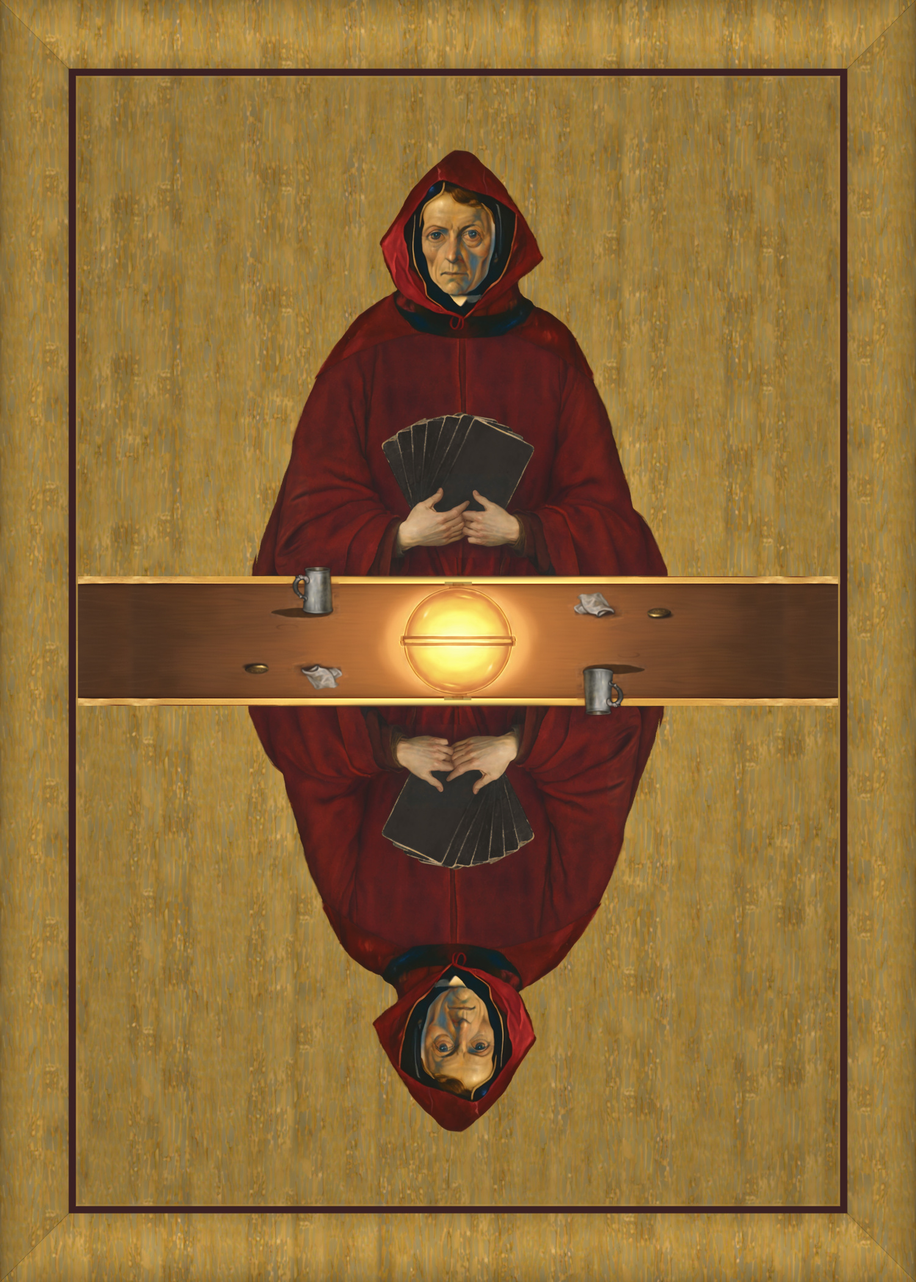
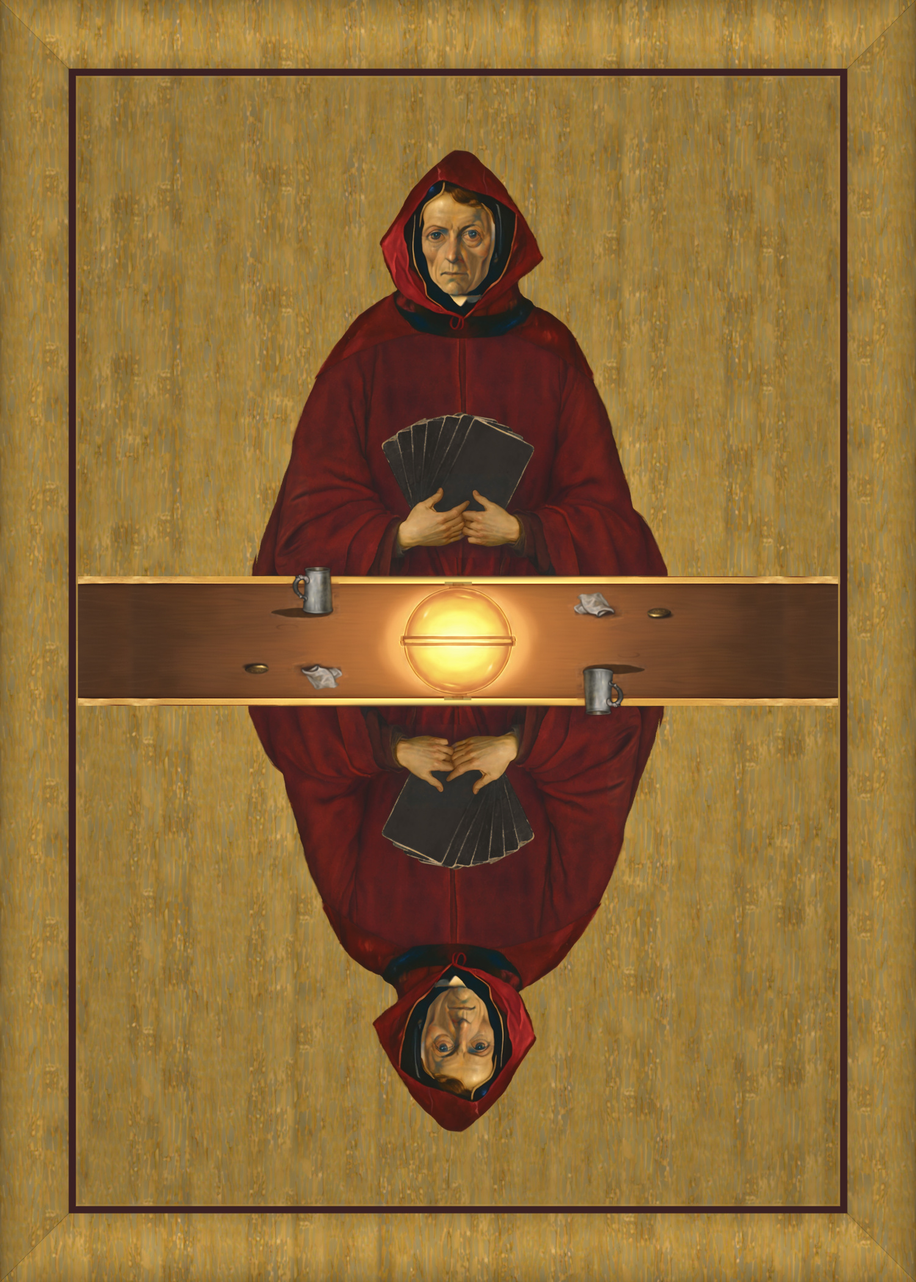
Two Seats order 1, finish 2: the hands' skin matched to the face's, the cheek's cool grey warmed (the owner's last two notes)
Hands: a Lab mean match of the hands' lit skin to the face's lit skin, applied to the
hands' skin only (cards, gilt edges and cuffs untouched); no repaint, no shape change.
Hue 29.5 -> 32.2 deg (face 32.1), sat 0.449 -> 0.605 (face 0.599), b* 25.2 -> 35.0 (face 35.2).
Cheek: chroma pulled toward the face's own skin at the same L*, inside a drawn patch, the
eye and the hood's black excluded; lightness kept. Lift and turn as before; all checks
pass (symmetry exact, darks 28.0, figure sat x value max 151.9 at the one known hood pixel).

diff --git a/docs/proxies/cardback/two-seats/order-1/finish/tools/sheets3.py b/docs/proxies/cardback/two-seats/order-1/finish/tools/sheets3.py
@@ -3,7 +3,8 @@
 #   CHECK.jpg        three cards at full size: the finished card, the raw one-pass pick (DreamShaper 0.40 s9702,
 #                    one-pass/two-seats-garnet-man-ds-40-s9702.png) and the previous order-1 file (63ae528); then every
 #                    fix at 2x, before (the raw pick) and after (the finished card), nearest-neighbour so no pixel is
-#                    smoothed by the sheet
+#                    smoothed by the sheet; then finish 2's two fixes at 2x, before (the 6cf1ff1 file, work/prev-finish1.png)
+#                    and after: the hands' colour with the face beside the hands, and the cheek
 #   SLEEVE-SIZE.jpg  true print size (744 x 1039 = 63.5 x 88.9 mm at 297.6 px per inch) with a 10 mm bar
 import sys, os
 from PIL import Image, ImageDraw, ImageFont
@@ -14,6 +15,11 @@ BG = (236, 232, 224); INK = (30, 30, 30)
 new = Image.open(f"{OD}/two-seats-garnet-man.png").convert("RGB")
 raw = Image.open(f"{OD}/one-pass/two-seats-garnet-man-ds-40-s9702.png").convert("RGB")
 prev = Image.open("work/prev-order1.png").convert("RGB")
+fin1 = Image.open("work/prev-finish1.png").convert("RGB")
+FACEB, HANDB, CHEEKB = (690, 320, 820, 480), (630, 780, 880, 920), (720, 360, 840, 500)
+def facehands(im):  # the face and the hands side by side, 2x, bottoms aligned
+    f, h = z(im, FACEB), z(im, HANDB); T = Image.new("RGB", (f.width + 16 + h.width, f.height), BG)
+    T.paste(f, (0, 0)); T.paste(h, (f.width + 16, f.height - h.height)); return T
 FIX = [("1. Hands (DS 0.58 s9803 of 10)", (630, 765, 875, 915)),
        ("5. Cards (value/hue shift in the card mask; foot repainted with the hands)", (610, 650, 890, 845)),
        ("2. Tankard (DS 0.50 s9811 of 4)", (425, 895, 585, 1030)),
@@ -31,7 +37,10 @@ for t, b in FIX:
     if x + w > W and row: rows.append((row, rh)); row = []; x = pad; rh = 0
     row.append((t, b, x)); x += w + pad; rh = max(rh, (b[3] - b[1]) * 2)
 rows.append((row, rh))
-H = pad + lab + 2100 + pad + sum(lab + r + pad for _, r in rows) + pad
+F2 = [("8. Hands' colour, the face beside them (Lab mean match to the face's skin, finish 2)", facehands(fin1), facehands(new)),
+      ("9. Cheek (chroma toward the cheek's own skin, lightness kept, finish 2)", z(fin1, CHEEKB), z(new, CHEEKB))]
+f2h = lab + 36 + max(b.height for _, b, _ in F2) + pad
+H = pad + lab + 2100 + pad + sum(lab + r + pad for _, r in rows) + f2h + pad
 S = Image.new("RGB", (W, H), BG); d = ImageDraw.Draw(S)
 y = pad
 for i, (t, im) in enumerate((("Finished (this file)", new), ("The pick as painted: DreamShaper 0.40, seed 9702", raw), ("Order 1 before this (63ae528)", prev))):
@@ -42,6 +51,11 @@ for row, rh in rows:
         d.text((x, y), t + ": before | after, 2x", fill=INK, font=f(24, True))
         S.paste(z(raw, b), (x, y + lab)); S.paste(z(new, b), (x + (b[2] - b[0]) * 2 + pad // 2, y + lab))
     y += lab + rh + pad
+d.text((pad, y), "Finish 2, the owner's last notes: before (6cf1ff1) | after, 2x", fill=INK, font=f(30, True)); y += 36
+x = pad
+for t, b, a in F2:
+    d.text((x, y), t, fill=INK, font=f(24, True))
+    S.paste(b, (x, y + lab)); S.paste(a, (x + b.width + pad // 2, y + lab)); x += 2 * b.width + pad // 2 + 2 * pad
 S.save(f"{OD}/CHECK.jpg", quality=88)
 w, h = 744, 1039; mm = w / 63.5; pad = 40
 S = Image.new("RGB", (3 * w + 4 * pad, h + 170), BG); d = ImageDraw.Draw(S)

diff --git a/docs/proxies/cardback/two-seats/order-1/finish/tools/skinlib.py b/docs/proxies/cardback/two-seats/order-1/finish/tools/skinlib.py
@@ -1,0 +1,58 @@
+# SPDX-License-Identifier: GPL-3.0-or-later
+# The Two Seats, order 1, finish 2: colour helpers (sRGB <-> CIE Lab D65, HSV) and the two skin masks, numpy only.
+import json, os
+import numpy as np
+from PIL import Image, ImageDraw
+HERE = os.path.dirname(os.path.abspath(__file__))
+REG = json.load(open(os.path.join(HERE, "regions.json")))
+M = np.array([[.4124564, .3575761, .1804375], [.2126729, .7151522, .0721750], [.0193339, .1191920, .9503041]])
+WP = np.array([.95047, 1.0, 1.08883])
+
+def rgb2lab(rgb):  # uint8/float 0..255 -> Lab
+    c = np.asarray(rgb, np.float64) / 255
+    c = np.where(c <= .04045, c / 12.92, ((c + .055) / 1.055) ** 2.4)
+    x = c @ M.T / WP
+    f = np.where(x > (6 / 29) ** 3, np.cbrt(x), x / (3 * (6 / 29) ** 2) + 4 / 29)
+    return np.stack([116 * f[..., 1] - 16, 500 * (f[..., 0] - f[..., 1]), 200 * (f[..., 1] - f[..., 2])], -1)
+
+def lab2rgb(lab):  # -> float 0..255 (unclipped)
+    fy = (lab[..., 0] + 16) / 116; fx = fy + lab[..., 1] / 500; fz = fy - lab[..., 2] / 200
+    f = np.stack([fx, fy, fz], -1)
+    x = np.where(f > 6 / 29, f ** 3, 3 * (6 / 29) ** 2 * (f - 4 / 29)) * WP
+    c = x @ np.linalg.inv(M).T
+    c = np.where(c <= .0031308, 12.92 * c, 1.055 * np.clip(c, 0, None) ** (1 / 2.4) - .055)
+    return c * 255
+
+def hsv(rgb):  # -> h degrees, s, v (0..1)
+    c = np.asarray(rgb, np.float64) / 255
+    mx = c.max(-1); mn = c.min(-1); d = mx - mn
+    s = np.where(mx > 0, d / np.maximum(mx, 1e-9), 0)
+    r, g, b = c[..., 0], c[..., 1], c[..., 2]
+    h = np.where(mx == r, (g - b) / np.maximum(d, 1e-9) % 6, np.where(mx == g, (b - r) / np.maximum(d, 1e-9) + 2, (r - g) / np.maximum(d, 1e-9) + 4)) * 60
+    return np.where(d > 0, h, 0), s, mx
+
+def drawn(shapes, H=1050, W=1500):
+    im = Image.new("L", (W, H), 0); d = ImageDraw.Draw(im)
+    for p in shapes.get("poly", []): d.polygon([tuple(q) for q in p], fill=255)
+    for e in shapes.get("ellipse", []): d.ellipse(e, fill=255)
+    for e in shapes.get("minus_ellipse", []): d.ellipse(e, fill=0)
+    for e in shapes.get("minus", []): d.rectangle(e, fill=0)
+    return np.asarray(im) > 0
+
+# Where skin is measured. FACE: an inner oval of the face, both eyes and the brows cut out (boxes), the mouth line too.
+# HANDS: the hands region of finish 1 (regions.json "hands"). Skin inside either: hue 12-50 deg, s 0.12-0.80, and
+# "lit" = v >= 0.42 (the shadow excluded), so the statistics compare skin with skin.
+FACE = {"ellipse": [[700, 330, 812, 478]], "minus": [[703, 368, 750, 402], [757, 368, 806, 402], [728, 455, 790, 466]]}
+def masks(top):
+    h, s, v = hsv(top)
+    skinhue = (h >= 12) & (h <= 50) & (s >= .12) & (s <= .80)
+    face = drawn(FACE) & skinhue & (v >= .42)
+    hands_area = drawn(REG["hands"])
+    hands = hands_area & skinhue & (v >= .42)
+    return face, hands, hands_area
+
+def stats(top, m):
+    h, s, v = hsv(top); L = rgb2lab(top)
+    q = lambda a: [round(float(x), 3) for x in (a[m].mean(), a[m].std(), *np.percentile(a[m], [10, 50, 90]))]
+    return {"px": int(m.sum()), "hue mean/std/p10/p50/p90": q(h), "sat": q(s), "val": q(v),
+            "L": q(L[..., 0]), "a": q(L[..., 1]), "b": q(L[..., 2])}

diff --git a/docs/proxies/cardback/two-seats/order-1/finish/tools/cheekskin.py b/docs/proxies/cardback/two-seats/order-1/finish/tools/cheekskin.py
@@ -1,0 +1,35 @@
+# SPDX-License-Identifier: GPL-3.0-or-later
+# The Two Seats, order 1, finish 2: the cool grey left on his cheek by the draft's blue-green smear, warmed toward the
+# cheek's own skin (the owner: "fix ... the cheek").   cheekskin.py <top.png> <out top.png>  (in two-seats-work/order1/finish)
+# Lightness is kept, so every form, line and shadow of the face stays the pick's; only the chroma moves. The face's
+# skin (hue 12-50 deg, sat >= 0.12, L* >= 22, inside the face oval, eyes, brows, mouth and the patch excluded) gives
+# a* and b* as a quadratic in L*. Inside the drawn patch (PATCH: the cheek from the nose to the face's right edge, the
+# right eye excluded, feathered 1.5 px) a pixel whose b* falls short of that prediction by more than 3 is pulled toward
+# the predicted (a*, b*) at its own L*, fully at a shortfall of 13. Pixels darker than L* 22 (the hood's black at the
+# face's edge) are left.
+import sys, json
+import numpy as np
+from PIL import Image
+from scipy.ndimage import gaussian_filter
+from skinlib import hsv, rgb2lab, lab2rgb, drawn, FACE
+PATCH = {"poly": [[[748, 390], [790, 393], [806, 380], [812, 382], [811, 420], [806, 446], [802, 462], [794, 486], [752, 486], [743, 456], [745, 420]]],
+         "minus_ellipse": [[755, 366, 808, 403]]}
+src, out = sys.argv[1:3]
+top = np.asarray(Image.open(src).convert("RGB"))
+Lab = rgb2lab(top); L, A, B = Lab[..., 0], Lab[..., 1], Lab[..., 2]
+h, s, v = hsv(top)
+patch = drawn(PATCH)
+ref = drawn(FACE) & ~patch & (h >= 12) & (h <= 50) & (s >= .12) & (L >= 22)
+pa = np.polyfit(L[ref], A[ref], 2); pb = np.polyfit(L[ref], B[ref], 2)
+ta, tb = np.polyval(pa, L), np.polyval(pb, L)
+short = tb - B
+w = np.clip((short - 3) / 10, 0, 1) * (L >= 22)
+feather = gaussian_filter(patch.astype(np.float64), 1.5)
+w = np.clip(gaussian_filter(w * patch, 1.0), 0, 1) * np.clip(feather * 1.0, 0, 1)
+N = Lab.copy(); N[..., 1] = A + (ta - A) * w; N[..., 2] = B + (tb - B) * w
+res = np.round(np.clip(top * (1 - (w > 0)[..., None]) + lab2rgb(N) * (w > 0)[..., None], 0, 255)).astype(np.uint8)
+Image.fromarray(res).save(out)
+P = patch & (L >= 22)
+q = lambda im: {k: round(float(x[P].mean()), 2) for k, x in zip("Lab", np.moveaxis(rgb2lab(im), -1, 0))}
+print(json.dumps({"changed px": int((res != top).any(-1).sum()), "patch px": int(P.sum()), "patch before": q(top), "patch after": q(res),
+                  "max weight": round(float(w.max()), 2), "fit b(L)": [round(float(c), 4) for c in pb]}))

diff --git a/docs/proxies/cardback/two-seats/order-1/finish/tools/handskin.py b/docs/proxies/cardback/two-seats/order-1/finish/tools/handskin.py
@@ -1,0 +1,36 @@
+# SPDX-License-Identifier: GPL-3.0-or-later
+# The Two Seats, order 1, finish 2: the hands' skin brought to the face's (the owner: "fix the hands colour").
+#   handskin.py <top.png> <out top.png> [std weight a,b (default 1)] (run in two-seats-work/order1/finish)
+# A per-channel mean/std match in CIE Lab: the hands' LIT skin statistics (skinlib.masks) are matched to the face's,
+# L, a and b each  x' = mu_face + (x - mu_hands) * k * sd_face / sd_hands + (1 - k) * (x - mu_hands)  -- k is the std
+# weight, 1 for L. The transform is applied to every skin pixel of the hands (the shadows between the fingers too),
+# with a soft alpha: inside finish 1's hands region, hue 12-50 deg (ramped 8-12 and 50-56), sat ramped 0.15-0.25 and
+# value ramped 0.24-0.32 (so the near-black cards and the red robe are untouched), and only within 3 px of the lit
+# skin opened by a 5 px square (so the cards' thin gilt edges and the sleeves' cuffs are untouched); softened by a
+# 1 px gaussian.
+# No shape change, no repaint: only the colour of pixels already skin.
+import sys, json
+import numpy as np
+from PIL import Image
+from scipy.ndimage import gaussian_filter, binary_opening, binary_dilation
+from skinlib import masks, stats, hsv, rgb2lab, lab2rgb
+src, out = sys.argv[1:3]; k = float(sys.argv[3]) if len(sys.argv) > 3 else 1.0
+top = np.asarray(Image.open(src).convert("RGB"))
+face, hands, area = masks(top)
+h, s, v = hsv(top)
+ramp = lambda x, a, b: np.clip((x - a) / (b - a), 0, 1)
+alpha = area * ramp(h, 8, 12) * (1 - ramp(h, 50, 56)) * ramp(s, .15, .25) * ramp(v, .24, .32)
+near = binary_dilation(binary_opening(hands, np.ones((5, 5), bool)), iterations=3)
+alpha = np.clip(gaussian_filter((alpha * near).astype(np.float64), 1.0), 0, 1) * area
+Lab = rgb2lab(top); N = Lab.copy()
+for c, kc in ((0, 1.0), (1, k), (2, k)):
+    mf, sf = Lab[..., c][face].mean(), Lab[..., c][face].std()
+    mh, sh = Lab[..., c][hands].mean(), Lab[..., c][hands].std()
+    d = Lab[..., c] - mh
+    N[..., c] = mf + d * (kc * sf / sh + (1 - kc))
+rgb = lab2rgb(N)
+res = top * (1 - alpha[..., None]) + rgb * alpha[..., None]
+res = np.round(np.clip(res, 0, 255)).astype(np.uint8)
+Image.fromarray(res).save(out)
+print(json.dumps({"k": k, "changed px": int((res != top).any(-1).sum()), "before": {"face": stats(top, face), "hands": stats(top, hands)},
+                  "after hands": stats(res, hands)}))

diff --git a/docs/proxies/cardback/two-seats/order-1/finish/tools/skinmeasure.py b/docs/proxies/cardback/two-seats/order-1/finish/tools/skinmeasure.py
@@ -1,0 +1,12 @@
+# SPDX-License-Identifier: GPL-3.0-or-later
+# skinmeasure.py <top.png> [maskview.png]: the face's and the hands' skin statistics (skinlib.masks), as JSON.
+import sys, json
+import numpy as np
+from PIL import Image
+from skinlib import masks, stats
+top = np.asarray(Image.open(sys.argv[1]).convert("RGB"))
+f, hd, _ = masks(top)
+print(json.dumps({"face": stats(top, f), "hands": stats(top, hd)}, indent=1))
+if len(sys.argv) > 2:
+    v = top.copy(); v[f] = (0, 255, 0); v[hd] = (0, 160, 255)
+    Image.fromarray(v).crop((600, 300, 900, 940)).resize((600, 1280), Image.NEAREST).save(sys.argv[2])

diff --git a/docs/proxies/cardback/two-seats/order-1/ORDER-1.md b/docs/proxies/cardback/two-seats/order-1/ORDER-1.md
@@ -84,6 +84,8 @@ There was no blur, grain or texture matching.
 | 7. Cheek: the blue-green smear | painted at 3×, cheek and jaw only, eyes excluded. At 0.28 and 0.35 the smear stayed, so it was rerun at 0.40/0.46 × seeds 9851/9853 | **0.46 s9851**: a cool grey shadow. The rest of the face is the pick's own pixels |
 | 7. Collar: a saturated blue strap | taken from the shoulder pass, through the collar ellipse only | **0.42 s9861**: dissolved into the dark collar |
 | 6. Shoulders | 0.42 × 2 seeds: their outline did not move at that strength | **left as painted** |
+| 8. Hands' colour: paler and cooler than the face (finish 2) | `finish/tools/handskin.py`, a Lab mean match of the hands' lit skin to the face's lit skin (`skinlib.py`'s masks: hue 12–50°, sat ≥ 0.12, value ≥ 0.42, eyes, brows and mouth cut out). Applied to the hands' skin only, shadows between the fingers included; the cards, the gilt edges and the cuffs are untouched. The full std match (k = 1) was blotchy and k = 0.5 still patchy, so the means only (k = 0) | hue 29.5° → 32.2° (face 32.1°), sat 0.449 → 0.605 (face 0.599), value 0.653 → 0.636 (face 0.637), b* 25.2 → 35.0 (face 35.2). Every mean within 1% of the face's. No pixel moved and nothing was repainted, so the fingers are as before: four and a thumb each, both thumbs on the front card |
+| 9. Cheek: a faint cool grey left by the smear (finish 2) | `finish/tools/cheekskin.py`. Lightness is kept, and only the chroma moves toward the face's own skin at the same L*, fitted from the face. Drawn patch from the nose to the face's right edge, right eye excluded, feathered; the hood's black (L* < 22) is left | the patch's mean a*/b* 6.3/19.3 → 9.8/26.0 at the same L* 39.0. 3,010 px changed. At 2× and 4× it is the same man |
 
 Also checked at 2×: the figure's outline against the leaf (no halo, no gold intrusion) and
 the hood's thin gilt hem, which is trim and not a fault. GPU time was about 40 minutes,
@@ -103,13 +105,15 @@ the 180° turn, asserted (`finish/tools/build.py`).
 - **Field:** brightest-channel mean 154.9, maximum 213.
 - **Margins:** hood top 245, left 408, right 406 (rule ≥ 110). Props 443 and 399.
 - **Cards:** plain at 200% (`CHECK.jpg`). 23 bright-speck clusters (107 px), all wear on
-  the edges.
-- **File size:** the JPEG at q95 is 1,153,849 bytes.
+  the edges. There are 23,855 dark face px (24,039 before finish 2). The warmer hands now
+  claim a rim of shadow where they meet the fan.
+- **File size:** the JPEG at q95 is 1,154,029 bytes.
 
 **Sheets:**
 
 - `CHECK.jpg`: the finished card, the raw pick and the previous order-1 file side by side,
-  then every fix at 2×, before and after.
+  then every fix at 2×, before and after. Last come finish 2's two fixes at 2×, against the 6cf1ff1 file: the
+  hands with the face beside them, and the cheek.
 - `SLEEVE-SIZE.jpg`: all three at true size, with a 10 mm bar.
 
 **To rebuild**, run from `~/scenery-packs/two-seats-work/order1/finish`:
@@ -121,7 +125,10 @@ the 180° turn, asserted (`finish/tools/build.py`).
 3. `fix.py cut`, then `gpu3.sh spec-finish1.json` and `spec-finish3.json`, with
    `robeguide.py` before robeedge2.
 4. `fix.py paste` in this order: hands, robeedge2, tankard, napkin, lamp2, cheek2, collar.
-5. `build.py`, `check2.py`, `sheets3.py`.
+5. Finish 2: `cheekskin.py work/top-final.png work/top-f2-cheek.png`, then
+   `handskin.py work/top-f2-cheek.png work/top-final2.png 0`. The last argument is the std
+   weight: 0 matches the means only.
+6. `build.py`, `check2.py`, `sheets3.py`.
 
 ## History
 
@@ -137,3 +144,9 @@ the 180° turn, asserted (`finish/tools/build.py`).
   manner. The robe's chair-back edge now falls as cloth, and the cheek smear and collar
   strap were softened. The shoulders were left alone. All checks pass, except the one hot
   hood pixel that the pick already had (151.9).
+- 2026-10-13, finish 2, after the owner's "Fix the hands colour and the cheek, then I'll
+  order". The hands' skin was brought to the face's skin by a Lab mean match on the hands'
+  skin only, with no repaint and no change of shape. The cheek's cool grey was warmed toward
+  the cheek's own skin, with lightness kept. Both are colour moves on the unlifted top half;
+  the lift and the turn are the same as before. All checks pass, with the same one hot hood
+  pixel (151.9). No GPU was used.
